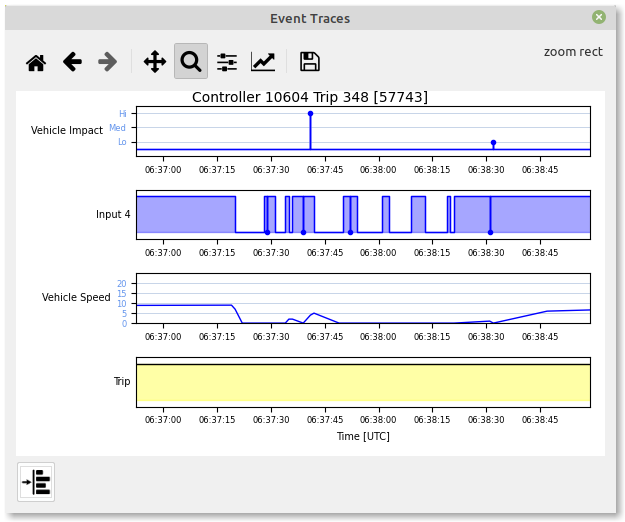
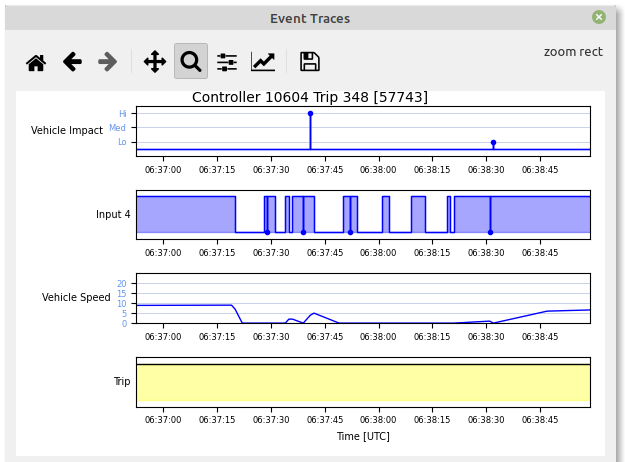
Changes to help for v0.8 changes.

diff --git a/resources/eventsChart.html b/resources/eventsChart.html
@@ -53,8 +53,7 @@ Note that if a log file is loaded that does not include any trips the chart will
   
 <p>As with the speed plot on the main application window, the event traces chart use the Python <a href="https://matplotlib.org/">https://matplotlib.org/</a> library.
 The standard matplotlib toolbar is displayed at the top of the chart, and can be used to perform standard functions,
-such as panning or zooming individual event traces, or to save an image of the whole chart.
-There is an additional toolbar button for aligning event traces (explained in the &#34;Event Trace Pan and Zoom&#34; section below.</p>
+such as panning or zooming individual event traces, or to save an image of the whole chart.</p>
 
 <p>The colours and fonts used in the chart can be set in the application configuration.</p>
 
@@ -114,14 +113,9 @@ In the case of Vehicle Speed, this is the same data as displayed on the speed pl
   
 <h2>Event Trace Pan and Zoom</h2>
 
-<p>At present only one event trace can be panned or zoomed at a time, that is, other event traces remain as they were as illustrated below.
-At this time this is a Matplotlip limitation when using time based x axis charts.</p>
-
-<img src="./zoomedTrace.png" alt="Zoomed event trace">
-
-<p>As can be seen in the illustration above there is a custom button at the bottom left of the chart.
-This is the &#34;<b>Align Traces</b>&#34; button and is used to align all traces to be the union of all traces.
-Using this button to align traces in the previous diagram is illustrated below.</p>
+<p>Using the Matplotlip toolbar any trace can be panned or zoomed,
+and all other traces will be panned or zoomed to match,
+that is, the time (x) axis for all traces will be kept in line as illustrated below.</p>
 
 <img src="./alignedTrace.png" alt="Aligned traces">
   

diff --git a/resources/eventFilter.html b/resources/eventFilter.html
@@ -61,6 +61,12 @@ Note that trips in alert is only referring to highlighting in the Trip Data pane
 <p>The two filter settings are <b>AND</b>ed together.
 Note that to only filter on trips in alert, set the event filter to the first  &#34;blank &#34; entry.</p>
 
+<p>Event filtering searches the first two columns in the Trip Data pane.
+Searching is a word search and not a search for EVENTS; for this reason the list of events
+in the dropdown list includes additional searches for event parameters such as DEBUG events as illustrated below.</p>
+  
+<img src="./eventSelections.png" alt="Advanced event filtering">
+
 <p>With the filter applied, i.e. a <b>green</b> filter symbol indicated in the toolbar,
 only trips matching the filter settings are displayed.</p>
   

diff --git a/etscrape.py b/etscrape.py
@@ -58,12 +58,10 @@ from eventsChart import *
 # *******************************************
 # TODO List
 #
-# Update help on additions to filter list, i.e. searching column 0 and 1.
-# Update help for event plot zooming and plot shared axes.
 # *******************************************
 
 # Program version.
-progVersion = "0.8 (wip)"
+progVersion = "0.8"
 
 # Create configuration values class object.
 config = Config()
